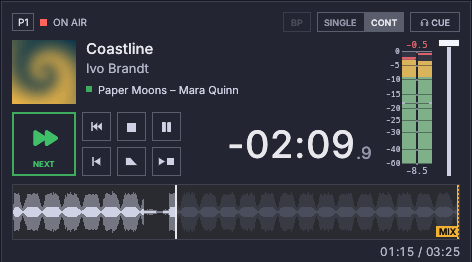
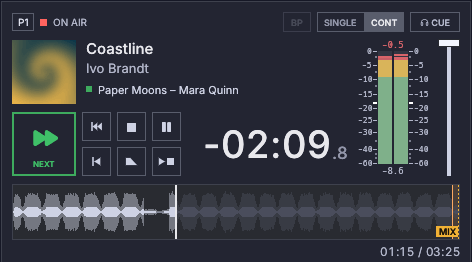
docs(ui): refresh the screenshots for the meter rulers
The README image and the guide's player image show the new meter with a
ruler on each side. Other guide images only differed by noise and are
unchanged.

diff --git a/docs/superpowers/plans/2026-10-06-feedback4-plan4-meter-rulers.md b/docs/superpowers/plans/2026-10-06-feedback4-plan4-meter-rulers.md
@@ -864,7 +864,7 @@ Checks the look visually in the real app (Xvfb) and refreshes the images that sh
 - Modify only if the look is wrong: the constants in `crates/fp-app/src/ui/widgets.rs` (`TICK_STRIP`, `MINOR_TICK_LEN`, `RULER_GAP`) and `crates/fp-app/src/ui/theme.rs` (`METER_TICK_MINOR_ALPHA`), with `tests/theme.rs` and `tests/meter_view.rs` updated to match.
 - Docs and locales: none beyond the images (no strings).
 
-- [ ] **Step 1: Take the screenshots**
+- [x] **Step 1: Take the screenshots**
 
 Needs `xvfb`, `xdotool`, ImageMagick, `ffmpeg`, `python3`, `curl` (CLAUDE.md, Testing notes). Run:
 
@@ -874,7 +874,7 @@ scripts/site/screenshots.sh 2>&1 | tail -30
 
 Expected: the script builds the release binary and the demo session, checks in the log that the null backend is in use, and writes `docs/images/main-screen.png` and every `docs/images/guide/*.png`. This takes several minutes; run it with a 10 minute timeout.
 
-- [ ] **Step 2: Look at the meter**
+- [x] **Step 2: Look at the meter**
 
 Open `docs/images/guide/player.png` and `docs/images/main-screen.png` with the Read tool (it shows images). Check, for the meter of every player:
 1. nothing crosses the two bars or the gap; the bars show only level, peak hold and zones;
@@ -885,11 +885,11 @@ Open `docs/images/guide/player.png` and `docs/images/main-screen.png` with the R
 
 If a point fails, fix the constant named in **Files** (for example `METER_TICK_MINOR_ALPHA` 0.60 to 0.75 when minor ticks vanish on the dark background), update the test that pins it, rerun `cargo test -p fp-app --test theme --test meter_view`, and rerun Step 1 (`scripts/site/screenshots.sh --only main` is enough for the main image; the full run refreshes the guide image).
 
-- [ ] **Step 3: Keep only the images that changed because of the meter**
+- [x] **Step 3: Keep only the images that changed because of the meter**
 
 Run: `git status --short docs/images`. Expected: `main-screen.png` and `guide/player.png` modified. Any other PNG that shows no meter (settings, tag editor, about, track menu, cart wall, CUE window) is regenerated byte-different only by noise: restore each with `git checkout -- <path>`. `docs/images/guide/settings-meters.png` shows the Settings view, not the meter: restore it too unless Settings changed.
 
-- [ ] **Step 4: Commit**
+- [x] **Step 4: Commit**
 
 ```bash
 if cargo fmt --all --check && cargo clippy --workspace --all-targets -- -D warnings \
